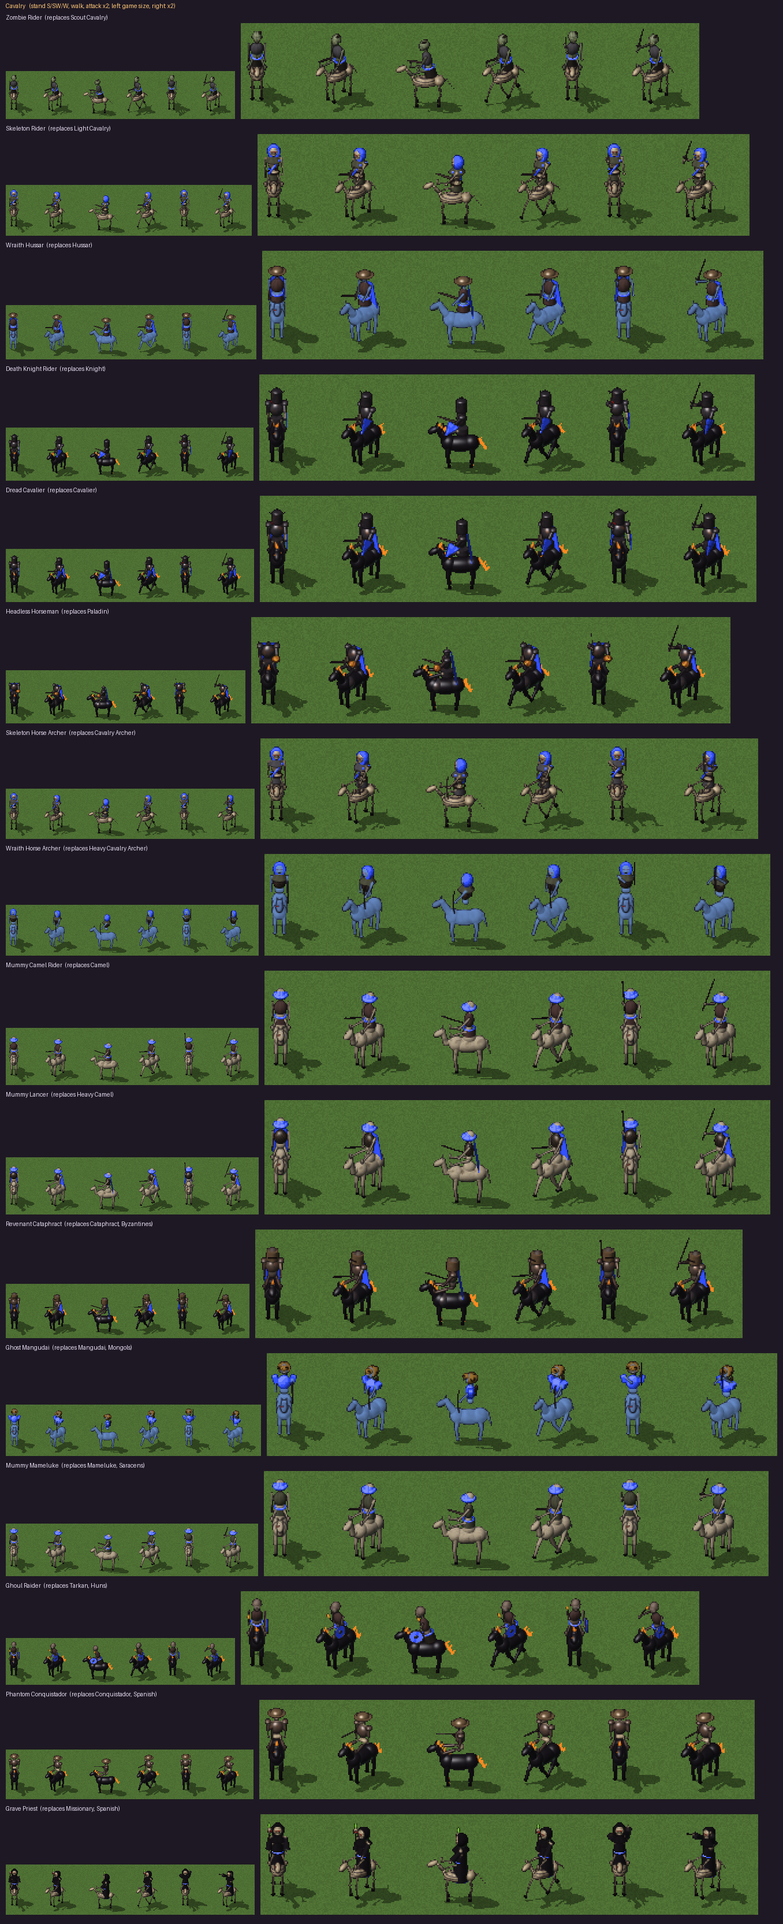
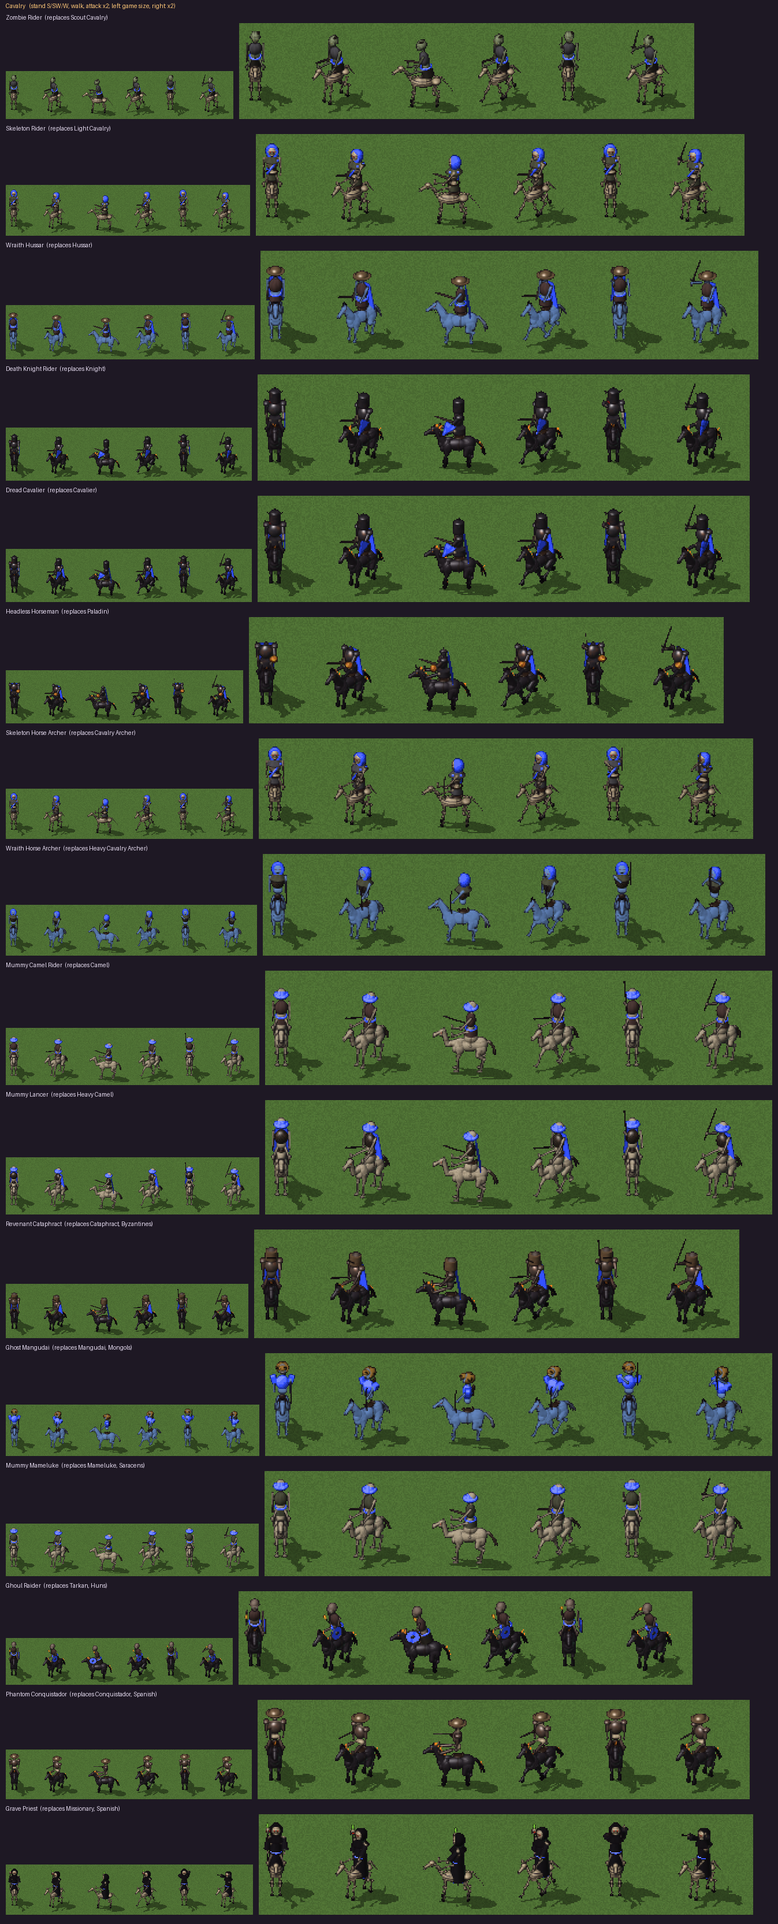
Model the horses like horses instead of balloons
The player found the horses looked like balloons: three big ellipsoids, a
tube neck and stick legs. Every horse (the cavalry's, the Headless
Horseman's, the wild nightmares and the hearse's) is now modelled muscle by
muscle: a slim barrel, a deep chest, a broad croup, withers, shoulder and
thigh muscles; an arched neck with a mane of hair falling to one side; a
long head with a broad forehead and round jowl tapering to a muzzle with
nostrils and a mouth line, eyes set on the sides, pointed ears and a
forelock; legs with knees (front) or pointed hocks (hind), slim cannons,
fetlocks, angled pasterns and hooves; a tail of flowing locks. Ridden horses
carry a saddle with a pommel, a cantle and stirrups on a blanket in the
owner's colour, a bridle and reins; plate barding is a peytral, a crinet
and a spiked chanfron fitted to the new shape. The nightmare is a little
less black and glossy, so its shape shows, still with fire in its mane,
tail and hooves. The skeleton horse has a horse's skull and bone legs, the
mummy camel its hump and drooping lips. The Shadow Panther's last green
eyes are red.

diff --git a/tools/aoh/cavalry.py b/tools/aoh/cavalry.py
@@ -5,6 +5,12 @@ and "tail" on it) and "leg_fr", "leg_fl", "leg_br", "leg_bl" pivoting at the hip
 creatures.py people seated as Age of Minecraft seated its riders (mounted.mount).
 
     nightmare   a black horse, flaming mane and tail, burning eyes and hooves
+
+Every horse is modelled like a horse (the player found the old ones looked like balloons): a barrel, a deep chest, a
+broad croup, withers, shoulder and thigh muscles, an arched neck with a mane falling to one side, a long head (a
+broad forehead and round jowl tapering to a muzzle with nostrils, eyes on the sides, pointed ears, a forelock), legs
+with knees or hocks, slim cannons, fetlocks, angled pasterns and hooves, a tail of flowing locks; a saddle with a
+pommel, a cantle and stirrups on a blanket in the owner's colour, a bridle and reins.
     bonehorse   a horse's skeleton
     ghosthorse  a pale spectral horse, glowing
     mummycamel  a camel wrapped in bandages
@@ -46,8 +52,121 @@ def _flames(points, size, colour, seed=0) -> list:
     return out
 
 
+def _hair(base, seed=0) -> S.Material:
+    """Mane and tail hair: dark, in strands (lighter and darker streaks along its length)."""
+    base = np.asarray(base, float)
+
+    def color(look):
+        p = look.p
+        streak = 0.5 + 0.5 * np.sin(p[:, 0] * 9.0 + P.noise(p, 1.2, seed) * 6.0)
+        return P.mix(base * 1.5, base * 0.5, streak)
+    return S.Material(color=color, shine=0.35, gloss=18)
+
+
+def _joint(p, r, m) -> S.Shape:
+    return S.ball(tuple(np.asarray(p, float)), r, m)
+
+
+def _horse_leg(name, x, y, back, front: bool, skin, hoof_m, bony=False, camel=False, kind="", seed=0) -> Part:
+    """A horse's leg: the forearm or gaskin, a knee (front) or a pointed hock (hind), a slim cannon, a fetlock, an
+    angled pastern and a hoof (a camel's broad pad)."""
+    s = -1.0 if not front else 1.0  # hind legs bend the other way
+    lift = 1.25 if camel else 1.0
+    hip = np.array([x, y, back - 4.0])
+    if front:
+        elbow = np.array([x, y - 0.5, back - 8.5])
+        knee = np.array([x, y + 0.5, 6.2 * lift])
+    else:
+        elbow = np.array([x, y + 1.6, back - 8.8])  # the stifle, forward
+        knee = np.array([x, y - 1.6, 6.6 * lift])   # the hock, pointing back
+    fetlock = np.array([x, y + 0.2 * s, 2.0])
+    pastern = np.array([x, y + 0.8 * s + (0.8 if not front else 0.0), 0.9])
+    if bony:
+        bone_m = skin
+        shapes = [S.rod(tuple(hip), tuple(elbow), 0.75, bone_m, 0.6), _joint(elbow, 1.0, bone_m),
+                  S.rod(tuple(elbow), tuple(knee), 0.6, bone_m, 0.5), _joint(knee, 0.9, bone_m),
+                  S.rod(tuple(knee), tuple(fetlock), 0.45, bone_m, 0.42), _joint(fetlock, 0.7, bone_m),
+                  S.rod(tuple(fetlock), tuple(pastern), 0.45, bone_m, 0.45)]
+    else:
+        upper = 1.55 if front else 1.75
+        shapes = [S.rod(tuple(hip), tuple(elbow), upper * 1.2, skin, upper), _joint(elbow, upper * 0.95, skin),
+                  S.rod(tuple(elbow), tuple(knee), upper * 0.9, skin, 0.75), _joint(knee, 0.95, skin),
+                  S.rod(tuple(knee), tuple(fetlock), 0.68, skin, 0.62), _joint(fetlock, 0.82, skin),
+                  S.rod(tuple(fetlock), tuple(pastern), 0.66, skin, 0.62)]
+        if not front:  # the point of the hock
+            shapes.append(S.Ellipsoid(skin, S._orient(tuple(knee + (0, -0.6, 0.3))), radii=(0.8, 0.9, 1.1)))
+        if kind == "nightmare":  # long dark feathering round the fetlock
+            shapes.append(S.rod(tuple(fetlock + (0, -0.2 * s, 1.2)), tuple(pastern + (0, -0.2 * s, -0.5)), 1.0,
+                                _hair(P.hexrgb("#141016"), seed), 1.35))
+    if camel:
+        shapes.append(S.Ellipsoid(skin, S._orient(tuple(pastern + (0, 0.6, -0.4))), radii=(1.4, 1.8, 0.6)))
+    else:
+        shapes.append(S.rod(tuple(pastern + (0, 0.3 * s, 0.2)), tuple((x, pastern[1] + 0.5 * s, 0.0)), 0.95, hoof_m,
+                            1.2))
+    return Part(name, pivot=tuple(hip), boxes=shapes)
+
+
+def _horse_head(kind, skin, eye, neck_top, back, seed, camel=False, bony=False) -> list:
+    """The neck's top and the head: a broad forehead and a round jowl, the face tapering to a soft muzzle with
+    nostrils and a mouth line, eyes set on the sides, pointed ears, a forelock."""
+    P0 = np.asarray(neck_top, float)  # the poll
+    M = P0 + (np.array([0, 5.2, -3.6]) if not camel else np.array([0, 5.0, -2.4]))  # the muzzle
+    d = (M - P0) / np.linalg.norm(M - P0)
+    dark = S.mat(P.hexrgb("#0e0a0c"))
+    eye_m = S.mat(tuple(eye), glow=1.0)
+    out = []
+    if bony:  # a horse's skull: long, with deep sockets, a nose cavity and a row of teeth
+        out += [S.Ellipsoid(skin, S._orient(tuple(P0 + d * 1.2 + (0, 0, 0.2))), radii=(1.7, 1.9, 1.6)),
+                S.rod(tuple(P0 + d * 1.6), tuple(M), 1.25, skin, 0.85),
+                S.Ellipsoid(skin, S._orient(tuple(P0 + (0, 1.0, -1.7))), radii=(1.1, 1.8, 1.3))]
+        for sx in (1, -1):
+            out += [S.Ellipsoid(dark, S._orient(tuple(P0 + d * 1.3 + (sx * 1.25, 0, 0.3))), radii=(0.5, 0.75, 0.6)),
+                    S.ball(tuple(P0 + d * 1.3 + (sx * 1.55, 0.1, 0.3)), 0.24, eye_m)]
+        out += [S.Ellipsoid(dark, S._orient(tuple(M + (0, 0.35, 0.45))), radii=(0.5, 0.8, 0.35)),
+                S.Ellipsoid(S.mat(P.hexrgb("#d8ccb0")), S._orient(tuple(M + (0, 0.2, -0.85))), radii=(0.75, 0.9, 0.3))]
+        return out
+    out += [S.Ellipsoid(skin, S._orient(tuple(P0 + d * 1.1 + (0, 0, 0.3))), radii=(1.75, 1.7, 1.5)),  # forehead
+            S.Ellipsoid(skin, S._orient(tuple(P0 + (0, 1.3, -1.6))), radii=(1.65, 1.9, 1.7)),  # the jowl
+            S.rod(tuple(P0 + d * 1.6), tuple(M), 1.35, skin, 1.05),  # the face
+            S.Ellipsoid(skin, S._orient(tuple(M)), radii=(1.25 if not camel else 1.4, 1.35, 1.1 if not camel else 1.3))]
+    if camel:  # droopy lips
+        out.append(S.Ellipsoid(skin, S._orient(tuple(M + (0, 0.5, -1.0))), radii=(1.1, 0.9, 0.6)))
+    for sx in (1, -1):
+        out += [S.Ellipsoid(dark, S._orient(tuple(M + (sx * 0.55, 0.95, 0.35))), radii=(0.32, 0.25, 0.42)),  # nostril
+                S.Ellipsoid(dark, S._orient(tuple(P0 + d * 1.5 + (sx * 1.55, 0.0, 0.25))), radii=(0.32, 0.5, 0.36)),
+                S.ball(tuple(P0 + d * 1.5 + (sx * 1.75, 0.05, 0.25)), 0.26, eye_m)]
+        if camel:
+            out.append(S.Ellipsoid(skin, S._orient(tuple(P0 + (sx * 1.3, -0.4, 1.0))), radii=(0.4, 0.6, 0.7)))
+        else:  # pointed ears, cupped
+            base = P0 + (sx * 0.85, -0.3, 1.1)
+            out += [S.hull([base + (-0.5, -0.3, 0), base + (0.5, -0.3, 0), base + (0, 0.5, 0),
+                            base + (sx * 0.35, 0.1, 2.6)], skin),
+                    S.hull([base + (-0.25, 0.2, 0.3), base + (0.25, 0.2, 0.3), base + (sx * 0.3, 0.3, 2.0)], dark)]
+    out.append(S.Ellipsoid(dark, S._orient(tuple(M + (0, 0.7, -0.75))), radii=(0.85, 0.7, 0.12)))  # the mouth line
+    return out
+
+
+def _bridle(neck_top, back, camel=False) -> list:
+    """A bridle of dark leather: a noseband, a cheek strap, a brow band, and the reins back to the saddle."""
+    leather = S.mat(P.hexrgb("#2a1a14"), shine=0.4)
+    iron = P.metal(P.hexrgb("#4a3a2e"), rust=0.4)
+    P0 = np.asarray(neck_top, float)
+    M = P0 + (np.array([0, 5.2, -3.6]) if not camel else np.array([0, 5.0, -2.4]))
+    nose = P0 + (M - P0) * 0.72
+    out = [S.torus(tuple(nose), 1.35, 0.18, leather, rot=(-35, 0, 0)),
+           S.torus(tuple(P0 + (0, 0.6, 0.4)), 1.75, 0.16, leather, rot=(-60, 0, 0))]
+    for sx in (1, -1):
+        out += [S.rod(tuple(P0 + (sx * 1.6, 0.4, 0.4)), tuple(nose + (sx * 1.25, -0.2, 0.2)), 0.16, leather),
+                S.ball(tuple(M + (sx * 1.0, -0.1, -0.6)), 0.3, iron),
+                S.rod(tuple(M + (sx * 1.0, -0.1, -0.6)), (sx * 1.8, 6.0, back + 2.4), 0.13, leather)]
+    return out
+
+
 def steed(kind: str, seed: int = 0, barding: Optional[str] = None, saddle: bool = True) -> Part:
-    """A steed facing +y, its back at about z 16."""
+    """A steed facing +y, its back at about z 17: a horse modelled muscle by muscle (barrel, deep chest, croup,
+    withers, shoulders and thighs), an arched neck with a mane, a horse's head, jointed legs with hooves, a tail of
+    hair; a saddle on a blanket in the owner's colour, a bridle and reins (the player found the old ones looked
+    like balloons)."""
     if kind == "bonehorse":
         skin = P.bone(seed)
     elif kind == "ghosthorse":
@@ -55,102 +174,130 @@ def steed(kind: str, seed: int = 0, barding: Optional[str] = None, saddle: bool 
     elif kind == "mummycamel":
         skin = C.bandage(seed=seed)
     else:  # nightmare
-        skin = S.Material(color=lambda l: P.mix(P.hexrgb("#24202a"), P.hexrgb("#08060a"),
-                                                0.4 * P.fbm(l.p, 2.0, seed)), shine=0.45, gloss=24)
+        skin = S.Material(color=lambda l: P.mix(P.hexrgb("#3e3640"), P.hexrgb("#120e12"),
+                                                0.5 * P.fbm(l.p, 2.0, seed)), shine=0.35, gloss=20, vivid=0.3)
     camel = kind == "mummycamel"
     bony = kind == "bonehorse"
     eye = {"nightmare": FLAME, "bonehorse": P.hexrgb("#ff2410"), "ghosthorse": P.hexrgb("#ff2410"),
            "mummycamel": P.hexrgb("#ff2410")}[kind]
+    hair_m = _hair(P.hexrgb("#141016") if kind == "nightmare" else P.hexrgb("#8aa8e8") if kind == "ghosthorse" else
+                   P.hexrgb("#5a4a36"), seed)
     back = 17.0 if not camel else 20.0
     root = Part("root")
     body_shapes = []
     if bony:
         from .undead import _ribs_material
-        body_shapes += [S.ball((0, 1.5, back - 2.5), (4.4, 7.5, 4.2), _ribs_material(seed)).clip((0, 0, -1), 1.0),
-                        S.ball((0, -6.5, back - 1.5), (4.0, 3.2, 3.2), skin)]
-        body_shapes += [S.ball((0, y, back + 1.5), (0.9, 0.9, 0.8), skin) for y in np.linspace(-8, 8, 8)]
+        body_shapes += [S.ball((0, 1.5, back - 2.8), (3.8, 6.8, 3.9), _ribs_material(seed)).clip((0, 0, -1), 1.0),
+                        S.Ellipsoid(skin, S._orient((0, -6.5, back - 1.8)), radii=(3.4, 2.8, 2.0)),  # the pelvis
+                        S.Ellipsoid(skin, S._orient((0, 5.6, back - 3.0), (25, 0, 0)), radii=(3.2, 1.0, 3.0))]  # scapulae
+        body_shapes += [S.ball((0, y, back + 1.2 - abs(y) * 0.05), (0.75, 0.9, 1.0), skin) for y in np.linspace(-9, 8, 10)]
+        body_shapes += [S.rod((0, y, back + 1.0), (0, y, back + 2.4), 0.3, skin, 0.15) for y in np.linspace(-6, 6, 6)]
     else:
-        body_shapes += [S.ball((0, 0.0, back - 3.0), (4.6, 10.0, 4.8), skin),
-                        S.ball((0, 6.5, back - 2.4), (4.4, 4.6, 4.8), skin),
-                        S.ball((0, -6.5, back - 2.2), (4.6, 4.8, 4.8), skin)]
+        body_shapes += [S.Ellipsoid(skin, S._orient((0, 0.0, back - 3.3)), radii=(3.5, 7.4, 3.8)),  # the barrel
+                        S.Ellipsoid(skin, S._orient((0, 6.2, back - 3.4)), radii=(3.6, 3.4, 4.3)),  # the chest
+                        S.Ellipsoid(skin, S._orient((0, 8.6, back - 5.2)), radii=(2.9, 1.6, 2.8)),  # its front
+                        S.Ellipsoid(skin, S._orient((0, 5.2, back + 0.1)), radii=(1.4, 2.8, 1.4)),  # the withers
+                        S.Ellipsoid(skin, S._orient((0, -6.4, back - 2.6)), radii=(3.9, 4.3, 4.3)),  # hindquarters
+                        S.Ellipsoid(skin, S._orient((0, -6.0, back - 0.2)), radii=(3.1, 3.6, 1.7))]  # the croup
+        for sx in (1, -1):
+            body_shapes += [S.Ellipsoid(skin, S._orient((sx * 2.4, 5.6, back - 4.6), (0, 0, 0)),
+                                        radii=(1.6, 2.6, 3.6)),  # shoulder
+                            S.Ellipsoid(skin, S._orient((sx * 2.6, -6.8, back - 5.0)), radii=(1.7, 3.0, 3.6))]  # thigh
         if camel:
-            body_shapes += [S.ball((0, -1.0, back + 1.6), (3.2, 4.0, 3.8), skin)]
-    # saddle and blanket in the owner's colour
+            body_shapes += [S.Ellipsoid(skin, S._orient((0, -0.8, back + 1.6)), radii=(3.0, 4.2, 3.8))]  # the hump
+    # saddle: a blanket in the owner's colour, a seat with a raised pommel and cantle, stirrups
     if saddle:
-        body_shapes += [S.ball((0, -1.5, back + 1.4 + (2.6 if camel else 0)), (4.0, 3.6, 1.2), C.team_cloth(0.55, seed))
-                        .clip((0, 0, -1), -(back + 0.8 + (2.6 if camel else 0)))]
-    if barding == "plate":
+        sz = back + 0.9 + (3.4 if camel else 0.0)
+        leather = S.mat(P.hexrgb("#3a2418"), shine=0.4)
+        iron = P.metal(P.hexrgb("#3a2e26"), rust=0.4)
+        body_shapes += [S.Ellipsoid(C.team_cloth(0.55, seed), S._orient((0, -1.2, sz - 0.6)), radii=(4.1, 3.8, 1.3))
+                        .clip((0, 0, -1), -(sz - 1.2)),
+                        S.Ellipsoid(leather, S._orient((0, -1.2, sz + 0.3)), radii=(2.6, 3.0, 0.8)),
+                        S.Ellipsoid(leather, S._orient((0, 1.6, sz + 0.9)), radii=(1.6, 0.8, 1.0)),
+                        S.Ellipsoid(leather, S._orient((0, -3.9, sz + 1.1)), radii=(2.0, 0.8, 1.2))]
+        for sx in (1, -1):
+            body_shapes += [S.rod((sx * 3.0, -0.8, sz), (sx * 3.6, -0.6, sz - 6.0), 0.18, leather),
+                            S.torus((sx * 3.6, -0.6, sz - 6.6), 0.7, 0.18, iron, rot=(0, 90, 0))]
+    if barding == "plate":  # a peytral over the chest, a crinet down the neck (below), riveted dark plate
         plate = P.metal(P.hexrgb("#3a363e"), rust=0.4, seed=seed, shine=0.7)
-        body_shapes += [S.ball((0, 5.0, back - 2.0), (4.9, 4.4, 4.0), plate).clip((0, 0, 1), back + 0.5)]
-    elif barding == "cloth":
+        body_shapes += [S.Ellipsoid(plate, S._orient((0, 6.4, back - 3.8)), radii=(3.95, 3.7, 4.0)).clip((0, -1, 0), -6.4),
+                        S.Ellipsoid(plate, S._orient((0, -6.4, back - 2.4)), radii=(4.2, 4.6, 4.1))
+                        .clip((0, 1, 0), -6.6).clip((0, 0, -1), -(back - 6.0))]
+    elif barding == "cloth":  # a caparison in the owner's colour, hanging in folds, its hem torn
         def stripes(look):
             return np.where((look.p[:, 1] % 4.0) < 0.6, 0.4, 0.75)
-        body_shapes += [S.ball((0, 0.0, back - 3.0), (4.9, 10.3, 5.0), P.team(0.7, stripes))
-                        .clip((0, 0, 1), back - 1.5).clip((0, 0, -1), -(back - 7.0))]
+        body_shapes += [S.Ellipsoid(P.team(0.7, stripes), S._orient((0, 0.0, back - 3.2)), radii=(4.0, 10.4, 4.3))
+                        .clip((0, 0, 1), back - 0.8).clip((0, 0, -1), -(back - 8.4))]
     body_part = Part("horse_body", pivot=(0, 0, back - 1.0), boxes=body_shapes)
 
-    # neck and head
-    neck_top = np.array([0, 13.0, back + 7.5]) if not camel else np.array([0, 14.0, back + 6.0])
-    neck = (S.limb((0, 8.0, back - 1.0), tuple(neck_top), 2.6, skin, 1.9) if not bony else
-            [S.ball(tuple(np.array([0, 8.0, back - 1.0]) + (neck_top - np.array([0, 8.0, back - 1.0])) * f),
-                    1.1, skin) for f in np.linspace(0, 1, 6)])
-    head_shapes = list(neck)
-    if camel:
-        mid = np.array([0, 12.5, back - 2.0])
-        head_shapes = S.limb((0, 8.0, back - 1.0), tuple(mid), 2.2, skin, 1.8) + \
-            S.limb(tuple(mid), (0, 14.5, back + 6.0), 1.8, skin, 1.6)
-    hx = neck_top + np.array([0, 2.6, -1.4])
+    # neck (arched, a crest on top) and head
+    base = np.array([0, 7.6, back - 1.8])
+    neck_top = np.array([0, 13.0, back + 7.2]) if not camel else np.array([0, 15.0, back + 6.0])
+    head_shapes = []
     if bony:
-        skull_m = C.eyes_material(skin, [(-1.1, 0.6, 0.6, 0.5), (1.1, 0.6, 0.6, 0.5)], eye, 0.55)
-        head_shapes += [S.Ellipsoid(skull_m, S.axis_frame(neck_top, hx + (0, 4.0, -2.0)) @
-                                    S.affine(None, (0, 0, 2.6)), radii=(1.8, 1.9, 3.6))]
+        head_shapes += [S.ball(tuple(base + (neck_top - base) * f), 1.0 - 0.15 * f, skin) for f in np.linspace(0, 1, 7)]
+    elif camel:
+        mid = np.array([0, 12.8, back - 2.6])
+        head_shapes += S.limb(tuple(base), tuple(mid), 2.2, skin, 1.7) + S.limb(tuple(mid), tuple(neck_top), 1.7, skin,
+                                                                               1.5)
     else:
-        head_m = C.eyes_material(skin, [(-1.5, 0.6, 0.55, 0.5), (1.5, 0.6, 0.55, 0.5)], eye, 0.6)
-        head_shapes += [S.Ellipsoid(head_m, S.axis_frame(neck_top, hx + (0, 4.2, -2.6)) @
-                                    S.affine(None, (0, 0, 2.8)), radii=(2.0, 2.2, 3.8))]
-        for sx in (-1, 1):  # ears
-            head_shapes.append(S.rod(neck_top + (sx * 1.0, 0.6, 1.0), neck_top + (sx * 1.4, 0.0, 3.4), 0.6,
-                                     skin, 0.1))
-    if kind == "nightmare":  # a mane of fire down the neck
-        pts = [np.array([0, 8.0, back - 0.4]) + (neck_top + (0, -0.6, 1.2) - np.array([0, 8.0, back - 0.4])) * f
-               for f in np.linspace(0, 1, 6)]
-        head_shapes += _flames(pts, 2.6, FLAME, seed)
-    if barding == "plate":  # a chanfron on the face with a spike
+        crest = base + (neck_top - base) * 0.5 + (0, -0.9, 1.0)
+        head_shapes += [S.rod(tuple(base), tuple(neck_top), 2.9, skin, 1.55),
+                        S.Ellipsoid(skin, S.axis_frame(base + (0, -0.6, 1.6), neck_top + (0, -0.6, 0.4)) @
+                                    S.affine(None, (0, 0, float(np.linalg.norm(neck_top - base)) / 2)),
+                                    radii=(1.5, 1.6, float(np.linalg.norm(neck_top - base)) / 2 + 0.6)),
+                        S.Ellipsoid(skin, S._orient(tuple(base + (0, 1.6, -1.0))), radii=(2.6, 2.0, 2.6))]
+        # the mane: locks of hair falling to one side of the crest, a forelock between the ears
+        for f in np.linspace(0.05, 1.0, 9):
+            p = base + (0, -0.6, 2.2) + (neck_top + (0, -0.8, 1.0) - (base + (0, -0.6, 2.2))) * f
+            head_shapes.append(S.rod(tuple(p + (0.2, 0, 0.4)), tuple(p + (1.6, -0.3, -2.4)), 0.75, hair_m, 0.2))
+        head_shapes.append(S.rod(tuple(neck_top + (0, 0.6, 1.2)), tuple(neck_top + (0.3, 2.2, -0.6)), 0.55, hair_m, 0.15))
+    head_shapes += _horse_head(kind, skin, eye, neck_top, back, seed, camel, bony)
+    if saddle and not bony:
+        head_shapes += _bridle(neck_top, back, camel)
+    if kind == "nightmare":  # fire licking up from the mane
+        pts = [base + (0, -0.6, 2.4) + (neck_top + (0, -0.8, 1.4) - (base + (0, -0.6, 2.4))) * f
+               for f in np.linspace(0.1, 1, 5)]
+        head_shapes += _flames(pts, 1.8, FLAME, seed)
+    if barding == "plate":  # a crinet down the neck, a chanfron over the face with a spike
         plate = P.metal(P.hexrgb("#3a363e"), rust=0.4, seed=seed, shine=0.7)
-        head_shapes += [S.Ellipsoid(plate, S.axis_frame(neck_top, hx + (0, 4.2, -2.6)) @
-                                    S.affine(None, (0, 0.4, 3.2)), radii=(2.1, 1.8, 2.8)).clip((0, -1, 0), -0.6),
-                        S.rod(neck_top + (0, 1.8, 1.0), neck_top + (0, 2.6, 4.6), 0.6, plate, 0.05)]
+        M = neck_top + np.array([0, 5.2, -3.6])
+        head_shapes += [S.rod(tuple(base + (0, -0.4, 1.0)), tuple(neck_top + (0, -0.6, 0.6)), 2.4, plate, 1.4)
+                        .clip((0, 1, 0), 0.0),
+                        S.rod(tuple(neck_top + (0, 0.8, 0.9)), tuple(M + (0, 0.0, 0.6)), 1.6, plate, 1.25)
+                        .clip((0, 0, -1), -(neck_top[2] - 3.4)),
+                        S.rod(tuple(neck_top + (0, 1.4, 1.4)), tuple(neck_top + (0, 2.4, 4.6)), 0.55, plate, 0.05)]
     head_part = Part("horse_head", pivot=(0, 8.0, back), boxes=head_shapes)
 
-    # tail
-    t0 = np.array([0, -10.5, back - 0.5])
-    if kind == "nightmare":
-        tail = _flames([t0 + (0, -k * 1.0, -k * 1.4) for k in range(5)], 2.4, FLAME, seed + 1)
-    elif bony:
+    # tail: locks of hair flowing from the dock (bones on the skeleton, fire on the nightmare)
+    t0 = np.array([0, -10.4, back - 0.6])
+    if bony:
         tail = [S.ball(tuple(t0 + (0, -k * 1.1, -k * 1.5)), 0.7 - 0.08 * k, skin) for k in range(6)]
     else:
-        tail = S.limb(tuple(t0), tuple(t0 + (0, -2.5, -8.0)), 1.2, skin, 0.4)
+        tail = [S.rod(tuple(t0), tuple(t0 + (0, -1.6, -1.2)), 1.0, skin, 0.8)]
+        rng = np.random.default_rng(seed + 3)
+        for j in range(7):
+            spread = np.array([rng.uniform(-1.0, 1.0), rng.uniform(-0.8, 0.6), 0.0])
+            a = t0 + (0, -1.4, -0.8)
+            b = a + (0, -2.6, -4.0) + spread * 0.8
+            c = b + (0, -0.8, -4.6) + spread * 1.4
+            tail += [S.rod(tuple(a), tuple(b), 0.85, hair_m, 0.6), S.rod(tuple(b), tuple(c), 0.6, hair_m, 0.12)]
+        if kind == "nightmare":
+            tail += _flames([t0 + (0, -2.0 - k * 0.8, -2.0 - k * 1.6) for k in range(4)], 1.8, FLAME, seed + 1)
     tail_part = Part("tail", pivot=tuple(t0), boxes=tail)
     body_part.add(head_part, tail_part)
 
-    def leg(name, x, y):
-        hip = (x, y, back - 4.0)
-        knee = (x, y + (0.8 if y > 0 else -0.8), back * 0.42)
-        hoof = (x, y, 1.0)
-        r = 1.3 if not bony else 0.8
-        shapes = C._limb_shapes(body("skeleton" if bony else "zombie", seed, skin=skin), hip, knee, r, r * 0.8) \
-            if bony else S.limb(hip, knee, r * 1.25, skin, r) + S.limb(knee, hoof, r * 0.85, skin, r * 0.7)
-        if bony:
-            shapes += C._limb_shapes(body("skeleton", seed, skin=skin), knee, hoof, r * 0.8, r * 0.7)
-        hoof_m = S.mat(P.hexrgb("#141012")) if kind != "ghosthorse" else skin
-        shapes.append(S.rod((x, y, 0.0), (x, y, 1.4), 1.2, hoof_m, 1.0))
-        if kind == "nightmare":
-            shapes += _flames([(x, y, 0.2)], 1.6, FLAME, seed + int(x * 10 + y))
-        return Part(name, pivot=hip, boxes=shapes)
-
-    fx, bx = 2.6, 2.6
-    root.add(body_part, leg("leg_fr", fx, 6.5), leg("leg_fl", -fx, 6.5), leg("leg_br", bx, -6.5),
-             leg("leg_bl", -bx, -6.5))
+    hoof_m = S.mat(P.hexrgb("#141012"), shine=0.4) if kind != "ghosthorse" else skin
+    fx, bx = 2.3, 2.5
+    legs = [_horse_leg("leg_fr", fx, 6.5, back, True, skin, hoof_m, bony, camel, kind, seed),
+            _horse_leg("leg_fl", -fx, 6.5, back, True, skin, hoof_m, bony, camel, kind, seed),
+            _horse_leg("leg_br", bx, -6.5, back, False, skin, hoof_m, bony, camel, kind, seed),
+            _horse_leg("leg_bl", -bx, -6.5, back, False, skin, hoof_m, bony, camel, kind, seed)]
+    if kind == "nightmare":
+        for lg in legs:
+            x, y = lg.pivot[0], lg.pivot[1]
+            lg.boxes += _flames([(x, y + 0.4, 0.3)], 1.3, FLAME, seed + int(x * 10 + y))
+    root.add(body_part, *legs)
     if kind == "ghosthorse":
         root.offset = (0.0, 0.0, 1.5)
     return root

diff --git a/tools/aoh/beasts.py b/tools/aoh/beasts.py
@@ -213,7 +213,7 @@ def nightmare_horse(key="horse") -> Unit:
 
 ANIMALS = {
     "jaguar": lambda: quadruped("jaguar", "Shadow Panther", "Jaguar",
-                                C.fur(P.hexrgb("#2a2830"), P.hexrgb("#0e0c12"), 4), 1.1, P.hexrgb("#9cff6a"),
+                                C.fur(P.hexrgb("#2a2830"), P.hexrgb("#0e0c12"), 4), 1.1, RED_EYE,
                                 attack="bite", snout=0.6),
     "horse": nightmare_horse,
     "hawk": lambda: flyer("hawk", "Giant Bat", "Hawk", "bat"),

diff --git a/docs/DESIGN.md b/docs/DESIGN.md
@@ -36,6 +36,16 @@ chin and ears. Skeletons have a skull modelled bone by bone (brow, cheekbones,
 nose hole, teeth). The Day of the Dead calaveras' skulls have flower petals
 round the eyes, a red heart on the nose and coloured dots on the brow.
 
+Horses are modelled like horses, not balloons. Each has a barrel, a deep
+chest, a broad croup, withers, and shoulder and thigh muscles. The neck is
+arched, with a mane falling to one side. The head has a broad forehead and a
+round jowl tapering to a muzzle with nostrils, eyes on the sides, pointed ears
+and a forelock. The legs have knees or hocks, slim cannons, fetlocks, angled
+pasterns and hooves, and the tail flows in locks of hair. Ridden horses carry
+a saddle with stirrups on a blanket in the owner's colour, a bridle and reins.
+The skeleton horse has a horse's skull and bone legs, and the camel its hump
+and drooping lips.
+
 ![foot](../previews/cast_foot.png)
 
 | Group | Halloween take |
